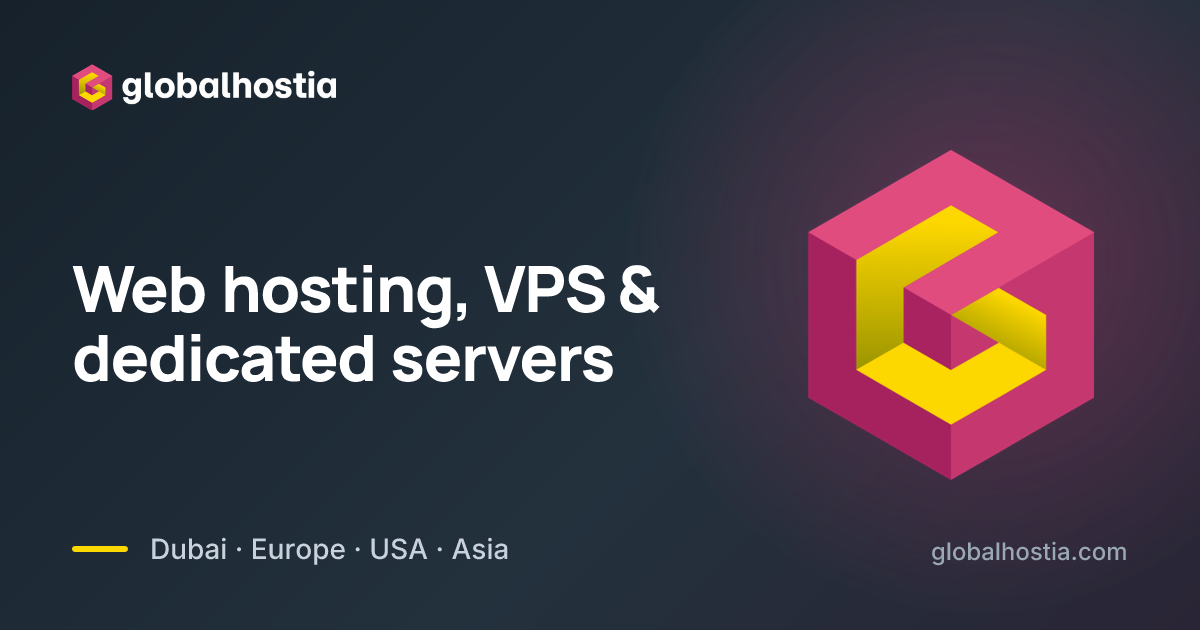
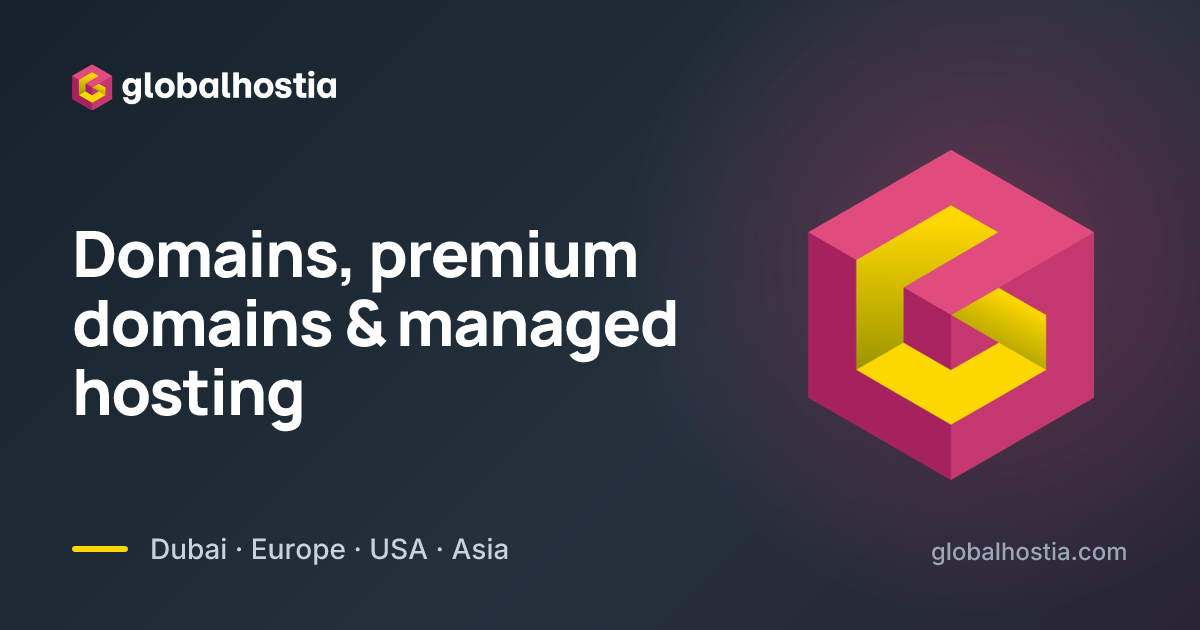
SEO positioning: domains first, then managed hosting for businesses worldwide
- Home: H1/title/description lead with domains ("Domain Names, Premium Domains & Hosting",
  "Register, transfer and buy premium domains worldwide…"); domain search meta names .com/.net/.io/.ai/.ae.
- Main product pages repositioned as managed, business-focused, global (Managed Web Hosting for
  Businesses, VPS Hosting for Businesses, Dedicated Servers for Business Workloads, Managed WordPress,
  Managed Cloud VPS, Business Email & Google Workspace, SSL for Business…); UAE wording only on UAE
  pages (/web-hosting-dubai, /vps-uae, /ae-domains, /best-hosting-uae, /ar); "affordable" removed
  from our own copy. Only features the site already states (free SSL, backups, free migration, 24/7,
  NVMe, root access, Dubai-based team). Titles 30-60, descriptions 70-160, unique.
- seoTitle/meta added where pages had none (plan finder, migration, .ae, data centres, UAE pages,
  reseller, projects, cloud servers); over-long broker/sell metas trimmed.
- Organization JSON-LD: description + slogan (domain registrar reseller, premium domain marketplace,
  managed hosting); WebSite description; default and fallback descriptions; blog listing copy.
- llms.txt intro and order (domains and premium domains first); RSS feed description.
- OG: default card title/alt, section kickers (Managed web hosting, Managed WordPress, Managed cloud,
  UAE business hosting); public/og/default.png regenerated from /og.
[…]

Changed region(s): [[0.0617, 0.3619, 0.5858, 0.6937]]

diff --git a/lib/theme/routes.ts b/lib/theme/routes.ts
@@ -13,43 +13,48 @@ const H = ['hosting-usa', 'hostia-shared', 'hosting-singapore'];
 const D = ['dedicated-servers', 'premiumdedicated-servers'];
 
 export const ROUTES: Record<string, RouteDef> = {
-  index: { kind: 'home', title: 'Web Hosting, VPS & Dedicated Servers', description: 'NVMe web hosting, cloud VPS and dedicated servers in six datacenters, with free SSL, daily backups and 24/7 support.',
-    meta: 'NVMe web hosting, cloud VPS, dedicated servers and domains from Dubai-based GlobalHostia. Free SSL, daily backups, upfront renewal prices and 24/7 support.' },
+  index: { kind: 'home', title: 'Domain Names, Premium Domains & Business Hosting', description: 'NVMe web hosting, cloud VPS and dedicated servers in six datacenters, with free SSL, daily backups and 24/7 support.',
+    seoTitle: 'Domain Names, Premium Domains & Hosting | GlobalHostia',
+    meta: 'Register, transfer and buy premium domains worldwide, then add managed hosting, VPS and business email from one Dubai-based partner. Free SSL, 24/7 support.' },
   'web-hosting': { kind: 'hosting', title: 'Web Hosting', description: 'Fast NVMe web hosting in the USA, Malaysia and Singapore with free SSL and daily backups.', categories: H,
-    seoTitle: 'Web Hosting in the USA, Malaysia & Singapore',
-    meta: 'Fast NVMe web hosting in the USA, Malaysia and Singapore. Free SSL, daily backups, email on your domain and free migration, with engineers on call 24/7.' },
+    seoTitle: 'Managed Web Hosting for Businesses | GlobalHostia',
+    meta: 'Managed NVMe web hosting for business websites: we handle servers, security patches and backups. Free SSL, email on your domain, free migration, 24/7 support.' },
   'shared-hosting': { kind: 'hosting', title: 'Shared Hosting', description: 'Affordable shared hosting on NVMe storage with free SSL, email and daily backups.', categories: H,
-    seoTitle: 'Shared Hosting Plans: Lite, Ultra & Infinity',
-    meta: 'Affordable shared hosting on NVMe storage: Lite, Ultra and Infinity plans with free SSL, email accounts and daily backups. Choose USA, Malaysia or Singapore.' },
+    seoTitle: 'Shared Hosting for Business Websites | GlobalHostia',
+    meta: 'Shared hosting for business websites on NVMe: Lite, Ultra and Infinity plans with free SSL, email accounts and daily backups in the USA, Malaysia or Singapore.' },
   'wordpress-hosting': { kind: 'wordpress', title: 'Managed WordPress Hosting', description: 'WordPress hosting tuned for speed: caching, staging, automatic updates and backups.', categories: ['wordpress-hosting', ...H],
-    meta: 'Managed WordPress hosting tuned for speed: caching, staging, automatic updates and daily backups on NVMe storage, plus free SSL and free migration of your site.' },
+    seoTitle: 'Managed WordPress Hosting for Businesses',
+    meta: 'Managed WordPress hosting for business sites: caching, staging, automatic updates and daily backups on NVMe storage, with free SSL and free site migration.' },
   'aws-pro-wordpress-ecommerce': { kind: 'wordpress', title: 'WordPress & WooCommerce Hosting', description: 'Hosting tuned for WooCommerce stores.', categories: ['wordpress-hosting', ...H],
     seoTitle: 'WooCommerce Hosting for WordPress Stores',
     meta: 'WooCommerce hosting for WordPress stores that cannot afford to stall: NVMe storage, caching, free SSL for checkout, daily backups and free store migration.' },
   'vps-hosting': { kind: 'vps', title: 'VPS Hosting', description: 'Linux and Windows VPS with dedicated vCPU, NVMe storage and full root access.', categories: ['hostiavps'],
-    seoTitle: 'Linux & Windows VPS Hosting with Root Access',
-    meta: 'Linux and Windows VPS hosting with reserved vCPU cores and memory, NVMe storage and full root access. Size your server, compare every plan and order online.' },
+    seoTitle: 'VPS Hosting for Businesses: Linux & Windows',
+    meta: 'Linux and Windows VPS hosting for business workloads: reserved vCPU and memory, NVMe storage, full root access and engineers on call 24/7. Compare every plan.' },
   'cloudvps-hosting': { kind: 'cloud', title: 'Cloud VPS', description: 'Fully managed SSD cloud VPS that scales with your traffic.', categories: ['hostiavps'],
-    seoTitle: 'Managed Cloud VPS Hosting',
-    meta: 'Fully managed cloud VPS on SSD storage that grows with your traffic. Reserved vCPU and RAM, scheduled backups and snapshots, run by engineers available 24/7.' },
+    seoTitle: 'Managed Cloud VPS Hosting for Businesses',
+    meta: 'Fully managed cloud VPS for growing businesses: reserved vCPU and RAM on SSD storage, scheduled backups and snapshots, run by our engineers around the clock.' },
   'cloud-servers': { kind: 'servers', title: 'Cloud VPS & Servers in Europe and USA', description: 'Classic and high-performance KVM VPS in Europe and the USA plus dedicated servers. Choose your OS, add RAM, vCPU or disk, automatic setup.', categories: ['hostiavps', 'dedicated-servers', 'windows-rdp', 'linux-rdp'],
+    seoTitle: 'Cloud VPS & Servers in Europe and the USA',
     meta: 'Classic and high-performance KVM VPS in Europe and the USA, plus dedicated servers. Choose your OS, add RAM, vCPU or disk, with automatic setup after payment.' },
   'linux-rdp': { kind: 'servers', title: 'Linux RDP Server', description: 'Linux RDP servers with NVMe storage and full root access. Ubuntu, Debian and more; connect from anywhere, set up automatically after payment.', categories: ['linux-rdp'] },
   'windows-rdp': { kind: 'servers', title: 'Windows RDP Server', description: 'Always-on Windows RDP servers with NVMe storage and administrator access. Connect from any device; set up automatically after payment.', categories: ['windows-rdp'],
     meta: 'Always-on Windows RDP servers with NVMe storage and administrator access for trading platforms, bots and remote work. Set up automatically after payment.' },
   'dedicated-servers': { kind: 'dedicated', title: 'Dedicated Servers', description: 'Bare-metal Xeon and Ryzen servers with up to 10Gbps unmetered ports.', categories: D,
-    seoTitle: 'Dedicated Servers: Bare-Metal Xeon & Ryzen',
-    meta: 'Bare-metal Xeon and Ryzen dedicated servers with full root access and up to 10Gbps unmetered ports. Filter every model by CPU, RAM, storage and port speed.' },
+    seoTitle: 'Dedicated Servers for Business Workloads',
+    meta: 'Bare-metal Xeon and Ryzen dedicated servers for demanding business workloads: full root access, up to 10Gbps unmetered ports and engineers on call 24/7.' },
   'ssl-certificate': { kind: 'ssl', title: 'SSL Certificates', description: 'DV, OV and EV SSL certificates from trusted authorities, issued in minutes.', categories: ['ssl-certificates'],
-    seoTitle: 'SSL Certificates: DV, OV, EV & Wildcard',
-    meta: 'Buy DV, OV, EV and wildcard SSL certificates from trusted authorities. Compare validation, coverage and warranty, then secure every login, form and checkout.' },
+    seoTitle: 'SSL Certificates for Business: DV, OV & EV',
+    meta: 'DV, OV, EV and wildcard SSL certificates from trusted authorities to secure business logins, forms and checkouts. Our team helps with the CSR and installation.' },
   'domains-registration': { kind: 'domains', title: 'Domain Registration', description: 'Search, register and transfer domains with transparent first-year and renewal prices.',
-    seoTitle: 'Domain Name Search & Registration',
-    meta: 'Search, register and transfer domain names with the first-year and renewal price shown upfront. DNS management included, all managed from one client area.' },
+    seoTitle: 'Domain Name Search & Registration | GlobalHostia',
+    meta: 'Search, register and transfer domain names worldwide: .com, .net, .io, .ai, .ae and more, with first-year and renewal prices upfront and DNS included.' },
   'cpanel-reseller': { kind: 'reseller', title: 'cPanel Reseller Hosting', description: 'White-label cPanel reseller hosting to start your own hosting business.', categories: ['cpanel-reseller'],
+    seoTitle: 'White-Label cPanel Reseller Hosting',
     meta: 'White-label cPanel reseller hosting: split your resources into packages, put your brand on every account and set your own prices. We run the servers for you.' },
   'google-workspace': { kind: 'email', title: 'Business Email & Google Workspace', description: 'Professional email on your own domain with calendar, storage and collaboration.', categories: ['business-email'],
-    meta: 'Professional business email on your own domain. Choose simple mailboxes with webmail for your team, or Google Workspace with calendar, documents and meetings.' },
+    seoTitle: 'Business Email & Google Workspace | GlobalHostia',
+    meta: 'Professional business email on your own domain, with DNS set up for you: simple mailboxes with webmail, or Google Workspace with calendar, docs and meetings.' },
   'n8n-automation': { kind: 'n8n', title: 'n8n Automation Hosting', description: 'Self-hosted n8n on NVMe servers: unlimited workflows, your data, your server.', categories: ['mcps'],
     meta: 'Self-hosted n8n automation on NVMe servers: unlimited workflows, your data kept on your own server, and engineers on hand at every step from order to first run.' },
   binance: { kind: 'n8n', title: 'Binance MCPs & Automation', description: 'Model Context Protocol servers and n8n automation for trading workflows.', categories: ['mcps'],
@@ -62,6 +67,7 @@ export const ROUTES: Record<string, RouteDef> = {
     seoTitle: 'Forex VPS for MetaTrader & Trading Bots',
     meta: 'Low-latency, always-on Windows VPS for MetaTrader terminals and trading bots, so your strategies keep running when your PC is off. Order online in minutes.' },
   projects: { kind: 'projects', title: 'Project Management Workspace', description: 'One workspace for every project: tasks, timelines and teams without per-seat costs.', categories: ['project-management'],
+    seoTitle: 'Project Management Workspace for Teams',
     meta: 'GlobalHostia PM, a hosted OpenProject workspace: boards, Gantt timelines, time tracking and a wiki for every project, priced per workspace instead of per seat.' },
   'sign-in': { kind: 'auth', title: 'Sign in', description: 'Sign in to your Globalhostia client area.', seoTitle: 'Sign in to Your Client Area',
     meta: 'Sign in to your GlobalHostia client area to manage hosting, domains, invoices, DNS, email and support tickets.' },
@@ -70,8 +76,8 @@ export const ROUTES: Record<string, RouteDef> = {
   'forget-password': { kind: 'auth', title: 'Reset your password', description: 'Reset your Globalhostia password.', seoTitle: 'Reset Your Client Area Password',
     meta: 'Forgot your GlobalHostia password? Enter your account email and we will send you a secure link to set a new one.' },
   about: { kind: 'content', title: 'About Globalhostia', description: 'Who we are: a Dubai-based hosting company running six datacenters on four continents.',
-    seoTitle: 'About GlobalHostia: Dubai-Based Web Hosting Company',
-    meta: 'Meet GlobalHostia, a Dubai-based hosting company offering web and WordPress hosting, VPS, dedicated servers, domains, SSL and business email worldwide.' },
+    seoTitle: 'About GlobalHostia: Managed Hosting from Dubai',
+    meta: 'GlobalHostia is a Dubai-based managed hosting partner for businesses worldwide: web and WordPress hosting, VPS, dedicated servers, domains, SSL and email.' },
   'help-center': { kind: 'content', title: 'Help Center', description: 'Guides and answers for hosting, domains, email and servers.',
     seoTitle: 'Help Center: Hosting, Domains & Email Support',
     meta: 'Find guides and answers for web hosting, domains, email, SSL and servers. Search popular support topics, browse the knowledge base or open a ticket, 24/7.' },
@@ -90,6 +96,9 @@ export const ROUTES: Record<string, RouteDef> = {
   network: { kind: 'content', title: 'Our network', description: 'Datacenters and CDN locations.',
     seoTitle: 'Our Network & Datacenter Locations',
     meta: 'Where GlobalHostia servers run: shared hosting in the USA, Malaysia and Singapore, server datacenters from the USA and Brazil to India, supported from Dubai.' },
+  security: { kind: 'security', title: 'Security', description: 'How to report a vulnerability to GlobalHostia, and how the website and client area are protected.',
+    seoTitle: 'Security & Vulnerability Disclosure',
+    meta: 'Found a security issue on GlobalHostia? How to report it responsibly, what we commit to, and how the website, client area and administration are protected.' },
   'privacy-policy': { kind: 'content', title: 'Privacy policy', description: 'How Globalhostia handles your data.',
     seoTitle: 'Privacy Policy: How We Protect Your Data',
     meta: 'How GlobalHostia collects, uses, stores and protects your personal data when you visit our website or use our hosting, domain and server services.' },
@@ -106,23 +115,37 @@ export const ROUTES: Record<string, RouteDef> = {
     seoTitle: 'Contact Us: 24/7 Sales & Support',
     meta: 'Talk to GlobalHostia sales or technical support by phone, email, WhatsApp or ticket, every hour of every day. Our team is based in Dubai, United Arab Emirates.' },
   // growth pages (lib/theme/growth.ts helpers)
-  'plan-finder': { kind: 'planfinder', title: 'Plan finder: which hosting do I need?', description: 'Answer four quick questions and get a hosting, VPS or server recommendation from our live catalog, with real prices and two alternatives.' },
-  'free-migration': { kind: 'migration', title: 'Free website migration', description: 'Moving from another host? Our engineers copy your website, databases and email to Globalhostia for free, with no downtime. Request a migration in two minutes.' },
-  'ae-domains': { kind: 'aedomains', title: '.ae Domains: register your UAE domain', description: 'Register a .ae domain for your UAE business. Live .ae price, eligibility requirements and help with the paperwork from a Dubai-based team.' },
+  'plan-finder': { kind: 'planfinder', title: 'Plan finder: which hosting do I need?', description: 'Answer four quick questions and get a hosting, VPS or server recommendation from our live catalog, with real prices and two alternatives.',
+    seoTitle: 'Plan Finder: Which Hosting Does Your Business Need?',
+    meta: 'Answer four quick questions and get a hosting, VPS or server recommendation for your business from our live catalog, with real prices and two alternatives.' },
+  'free-migration': { kind: 'migration', title: 'Free website migration', description: 'Moving from another host? Our engineers copy your website, databases and email to Globalhostia for free, with no downtime. Request a migration in two minutes.',
+    seoTitle: 'Free Website Migration by Our Engineers',
+    meta: 'Moving from another host? Our engineers copy your website, databases and email to GlobalHostia for free, with no downtime. Request a migration in two minutes.' },
+  'ae-domains': { kind: 'aedomains', title: '.ae Domains: register your UAE domain', description: 'Register a .ae domain for your UAE business. Live .ae price, eligibility requirements and help with the paperwork from a Dubai-based team.',
+    seoTitle: '.ae Domain Registration for UAE Businesses',
+    meta: 'Register a .ae domain for your UAE business: the live .ae price, eligibility requirements explained, and help with the paperwork from our Dubai-based team.' },
   'domain-broker': { kind: 'broker', title: 'Domain broker service', description: 'The domain you want is taken? A dedicated broker contacts the owner anonymously, negotiates within your budget and secures the transfer through escrow.',
     seoTitle: 'Domain Broker Service: Buy a Taken Domain',
-    meta: 'Buy a taken or premium domain: anonymous owner outreach, negotiation within your budget and escrow transfer. A fixed fee to start and a commission only if the deal closes.' },
+    meta: 'Buy a taken or premium domain: anonymous owner outreach, negotiation within your budget and escrow transfer. A fixed fee to start, commission only if it closes.' },
   'premium-domains': { kind: 'premium', title: 'Premium domains for sale', description: 'Hand-picked premium domain names for sale, with the price shown upfront. Request a name and we confirm it, send a secure invoice and move it to your account.',
     seoTitle: 'Premium Domains for Sale: Short, Brandable Names',
     meta: 'Buy a premium domain name with the price shown upfront: short, brandable .com, .ai, .io and .ae names. We confirm, invoice securely and transfer it to you.' },
   'sell-domains': { kind: 'sell', title: 'Sell your domain', description: 'List a domain from your GlobalHostia account in our premium domains marketplace. You set the price; our broker team handles buyers, escrow and the transfer.',
     seoTitle: 'Sell Your Domain Name: List It in Our Premium Marketplace',
-    meta: 'Sell a domain registered with GlobalHostia in our premium marketplace: $15 per domain a year, optional Featured placement, buyers and escrow handled by our broker.' },
-  'data-centers': { kind: 'datacenters', title: 'Data centers and network locations', description: 'Where our hosting, VPS and dedicated servers run, and a live test of the round-trip time from your browser to our network.' },
-  'web-hosting-dubai': { kind: 'uae', title: 'Web Hosting in Dubai', description: 'Web hosting from a Dubai-based company: NVMe plans with free SSL, prices in AED, a price-locked renewal and support by WhatsApp and ticket around the clock.', categories: H },
-  'vps-uae': { kind: 'uae', title: 'VPS Hosting UAE', description: 'Linux and Windows VPS for UAE businesses: dedicated vCPU and RAM, NVMe storage, root access and engineers on WhatsApp 24/7. Live prices in AED or USD.', categories: ['hostiavps', 'high-performance-vps'] },
+    meta: 'Sell a domain registered with GlobalHostia in our premium marketplace: $15 per domain a year, optional Featured placement, buyers and escrow handled for you.' },
+  'data-centers': { kind: 'datacenters', title: 'Data centers and network locations', description: 'Where our hosting, VPS and dedicated servers run, and a live test of the round-trip time from your browser to our network.',
+    seoTitle: 'Data Centers & Network Locations | GlobalHostia',
+    meta: 'Where our managed hosting, VPS and dedicated servers run, with a live test of the round-trip time from your browser to our network. Supported from Dubai.' },
+  'web-hosting-dubai': { kind: 'uae', title: 'Web Hosting in Dubai', description: 'Web hosting from a Dubai-based company: NVMe plans with free SSL, prices in AED, a price-locked renewal and support by WhatsApp and ticket around the clock.', categories: H,
+    seoTitle: 'Managed Web Hosting in Dubai & the UAE',
+    meta: 'Managed web hosting for UAE businesses from a Dubai-based team: NVMe plans with free SSL, prices in AED, price-locked renewals and WhatsApp support 24/7.' },
+  'vps-uae': { kind: 'uae', title: 'VPS Hosting UAE', description: 'Linux and Windows VPS for UAE businesses: dedicated vCPU and RAM, NVMe storage, root access and engineers on WhatsApp 24/7. Live prices in AED or USD.', categories: ['hostiavps', 'high-performance-vps'],
+    seoTitle: 'VPS Hosting UAE for Businesses | GlobalHostia',
+    meta: 'Linux and Windows VPS for UAE businesses: dedicated vCPU and RAM, NVMe storage, root access and engineers on WhatsApp 24/7. Live prices in AED or USD.' },
   'windows-rdp-uae': { kind: 'uae', title: 'Windows RDP in the UAE', description: 'An always-on Windows desktop in the cloud for UAE teams and traders: administrator access, NVMe storage and setup after payment. Connect from any device.', categories: ['windows-rdp', 'linux-rdp'] },
-  'best-hosting-uae': { kind: 'uae', title: 'Best Web Hosting in the UAE: how to choose', description: 'What to compare before you buy hosting in the UAE: renewal prices, support hours, data location, VAT invoices and migration. An honest checklist and our live plans.', categories: H },
+  'best-hosting-uae': { kind: 'uae', title: 'Best Web Hosting in the UAE: how to choose', description: 'What to compare before you buy hosting in the UAE: renewal prices, support hours, data location, VAT invoices and migration. An honest checklist and our live plans.', categories: H,
+    seoTitle: 'Best Web Hosting in the UAE: How to Choose',
+    meta: 'What UAE businesses should compare before buying hosting: renewal prices, support hours, data location, VAT invoices and migration, plus our live plans.' },
   // /compare and /guides indexes and pages (lib/theme/learn.ts, rendered by lib/theme/pages/learn.ts)
   ...Object.fromEntries((Object.keys(LEARN_SECTIONS) as LearnSection[]).map((k) => [k, { kind: 'learn', title: LEARN_SECTIONS[k].title, description: LEARN_SECTIONS[k].description, seoTitle: LEARN_SECTIONS[k].seoTitle, meta: LEARN_SECTIONS[k].meta }])),
   ...Object.fromEntries(LEARN_PAGES.map((p) => [learnPath(p).slice(1), { kind: 'learn', title: p.title, description: p.description, seoTitle: p.seoTitle, meta: p.meta }])),
@@ -168,4 +191,4 @@ export function dynamicRoute(segs: string[]): RouteDef | null {
 export const PRODUCT_ROUTE: RouteDef = { kind: 'product', title: '', description: '' };
 
 /** /blog, /blog/<slug>, /blog/category/<slug>, /blog/rss.xml (lib/theme/pages/blog.ts) */
-export const BLOG_ROUTE: RouteDef = { kind: 'blog', title: 'Blog', description: 'Hosting guides and news from Globalhostia.', seoTitle: 'Blog: Web Hosting Guides, Tutorials & News' };
+export const BLOG_ROUTE: RouteDef = { kind: 'blog', title: 'Blog', description: 'Hosting guides and news from Globalhostia.', seoTitle: 'Blog: Hosting & Infrastructure Guides for Business' };

diff --git a/lib/seo.ts b/lib/seo.ts
@@ -39,16 +39,21 @@ export function blogListingDescription(desc: string, title: string) {
   const cat = title.replace(/\s*\(page \d+\)$/i, '').replace(/\s+articles( and guides)?$/i, '').trim();
   const topic = !cat || /^blog$/i.test(cat) ? 'web hosting, VPS, servers, domains and email' : cat.toLowerCase().replace(/\s+guides?$/, '') || 'web hosting';
   return fitDescription(t, [
-    `Practical guides, tutorials and tips on ${topic} for site owners and developers, written by the engineers who run GlobalHostia.`,
+    `Practical guides, tutorials and tips on ${topic} for businesses, site owners and developers, written by the engineers who run GlobalHostia.`,
     `Practical guides, tutorials and tips on ${topic}, written by the engineers who run GlobalHostia.`,
-    'Step-by-step tutorials and tips for site owners and developers.',
-    'Tutorials and tips for site owners and developers.',
+    'Step-by-step tutorials and tips for businesses, site owners and developers.',
+    'Tutorials and tips for businesses and developers.',
     `Practical guides and tips on ${topic} from our engineers.`,
     'Guides and tips from the GlobalHostia engineers.',
   ]);
 }
 
-export const DEFAULT_DESCRIPTION = 'NVMe web hosting, cloud VPS and dedicated servers in Dubai, Europe, the USA and Asia, with free SSL, daily backups and 24/7 support.';
+export const DEFAULT_DESCRIPTION = 'Domain names, premium domains and managed hosting for businesses worldwide: register and transfer domains, add VPS, servers and business email, 24/7 support.';
+
+/** Positioning line (Organization.slogan): domains first, then managed hosting and business infrastructure. */
+export const ORG_SLOGAN = 'Domain names, premium domains and managed hosting for businesses worldwide, based in Dubai.';
+/** Organization.description: only services and support the site itself lists. */
+export const ORG_DESCRIPTION = 'GlobalHostia is a Dubai-based domain registrar reseller, premium domain marketplace and managed hosting partner for businesses worldwide: domain registration and transfers, premium domains and brokerage, web and WordPress hosting, VPS, dedicated servers, SSL certificates and business email, with 24/7 support.';
 export const DEFAULT_PHONE = '+971 50 734 1578';
 export const DEFAULT_EMAIL = 'support@globalhostia.com';
 
@@ -140,11 +145,11 @@ const ogClean = (v: string, max: number) => String(v || '').replace(/[\u0000-\u0
 
 /** Section label printed above the title on a page's OG image, by theme route kind (lib/theme/routes.ts). */
 const KICKER: Record<string, string> = {
-  hosting: 'Web hosting', wordpress: 'WordPress hosting', reseller: 'Reseller hosting', vps: 'VPS hosting', cloud: 'Cloud servers', servers: 'Servers',
+  hosting: 'Managed web hosting', wordpress: 'Managed WordPress', reseller: 'Reseller hosting', vps: 'VPS hosting', cloud: 'Managed cloud', servers: 'Servers',
   dedicated: 'Dedicated servers', forex: 'Forex VPS', domains: 'Domains', aedomains: '.ae domains', tld: 'Domains', premium: 'Premium domains', broker: 'Domain broker',
   sell: 'Sell your domain', ssl: 'SSL certificates', email: 'Business email', store: 'Business services', projects: 'Project management', blog: 'Blog',
   learn: 'Guides', vs: 'Compare', help: 'Help centre', contact: 'Contact', datacenters: 'Data centres', migration: 'Free migration', planfinder: 'Plan finder',
-  uae: 'UAE hosting', usecase: 'Hosting for', location: 'Locations', category: 'Plans', ai: 'AI connectors', auth: 'Account', product: 'Plan', landing: 'Offer',
+  uae: 'UAE business hosting', usecase: 'Hosting for', location: 'Locations', category: 'Plans', ai: 'AI connectors', auth: 'Account', product: 'Plan', landing: 'Offer',
 };
 const KICKER_AR: Record<string, string> = { ar: 'GlobalHostia بالعربية' };
 /** OG kicker for a page: the explicit one, else its section label. */
@@ -201,9 +206,9 @@ export function descriptionFor(title: string, text?: string) {
   if (base.length >= 70) return seoDescription(base);
   const lead = base ? `${base.replace(/[.\s]+$/, '')}.` : `${t} from GlobalHostia.`;
   return seoDescription(fitDescription(lead, [
-    'NVMe web hosting, VPS and dedicated servers in Dubai, Europe, the USA and Asia, with free SSL and 24/7 support.',
-    'Web hosting, VPS, domains and email from GlobalHostia in Dubai, with free SSL and 24/7 support.',
-    'Hosting, servers and domains with 24/7 support from GlobalHostia in Dubai.',
+    'Domain names, premium domains and managed hosting for businesses worldwide, from a Dubai-based team, with 24/7 support.',
+    'Domains, managed hosting, VPS and business email from Dubai-based GlobalHostia, with 24/7 support.',
+    'Domains, managed hosting and servers with 24/7 support from GlobalHostia.',
   ], 70, 160));
 }
 
@@ -221,7 +226,7 @@ export function siteJsonLd(s: Partial<Settings>, whmcsBase: string, orgExtra?: R
   const base = String(whmcsBase || '').replace(/\/$/, '');
   const org = {
     '@type': 'Organization', '@id': `${site}/#organization`, name, ...(alt && alt !== name ? { alternateName: alt } : {}),
-    url: `${site}/`, 
+    url: `${site}/`, description: ORG_DESCRIPTION, slogan: ORG_SLOGAN,
     logo: { '@type': 'ImageObject', url: `${site}/icon-512.png`, width: 512, height: 512 },
     image: `${site}/og/default.png`,
     email, telephone: phone,
@@ -233,7 +238,7 @@ export function siteJsonLd(s: Partial<Settings>, whmcsBase: string, orgExtra?: R
     ...(orgExtra || {}),
   };
   const website: Record<string, unknown> = {
-    '@type': 'WebSite', '@id': `${site}/#website`, name, ...(alt && alt !== name ? { alternateName: alt } : {}), url: `${site}/`, inLanguage: 'en',
+    '@type': 'WebSite', '@id': `${site}/#website`, name, ...(alt && alt !== name ? { alternateName: alt } : {}), url: `${site}/`, inLanguage: 'en', description: DEFAULT_DESCRIPTION,
     publisher: { '@id': `${site}/#organization` },
   };
   if (/^https:\/\//.test(base)) {

diff --git a/lib/i18n/ar-pages.ts b/lib/i18n/ar-pages.ts
@@ -34,8 +34,8 @@ const c = (x: Omit<ArCopy, 'enabled'> & { enabled?: boolean }): ArCopy => ({ ena
 export const AR_DEFS: ArDef[] = [
   { slug: '', en: '/', kind: 'home', copy: c({
     title: 'استضافة مواقع وخوادم ونطاقات من شركة مقرها دبي',
-    seoTitle: 'استضافة مواقع في الإمارات ودبي | GlobalHostia',
-    meta: 'استضافة مواقع بأقراص NVMe وخوادم VPS ومخصصة وتسجيل نطاقات .ae و.com من GlobalHostia في دبي، مع شهادة SSL مجانية ونسخ احتياطي يومي ودعم فني على مدار الساعة.',
+    seoTitle: 'تسجيل نطاقات واستضافة مُدارة للشركات | GlobalHostia',
+    meta: 'سجّل نطاقك أو انقله أو اشترِ نطاقاً مميزاً، ثم أضف استضافة مواقع مُدارة وخوادم VPS وبريداً للشركات من فريق GlobalHostia في دبي، مع SSL مجاني ودعم 24/7.',
     kicker: 'GlobalHostia · دبي، الإمارات العربية المتحدة',
     lead: 'كل ما يحتاجه موقع شركتك في مكان واحد: استضافة سريعة، وخادم افتراضي خاص، ونطاق باسم علامتك التجارية، وبريد إلكتروني للشركات، مع فريق دعم يتابع طلبك حتى يعمل موقعك.',
     crumb: 'الرئيسية',
@@ -59,8 +59,8 @@ export const AR_DEFS: ArDef[] = [
   }) },
   { slug: 'web-hosting', en: '/web-hosting', kind: 'plans', categories: H, copy: c({
     title: 'استضافة مواقع سريعة للشركات في الإمارات والخليج',
-    seoTitle: 'استضافة مواقع الإمارات ودبي بأقراص NVMe',
-    meta: 'استضافة مواقع للشركات في الإمارات ودبي على أقراص NVMe مع شهادة SSL مجانية ونسخ احتياطي يومي وبريد على نطاقك ونقل مجاني لموقعك، ودعم فني على مدار الساعة.',
+    seoTitle: 'استضافة مواقع مُدارة للشركات في الإمارات ودبي',
+    meta: 'استضافة مواقع مُدارة للشركات في الإمارات ودبي على أقراص NVMe: نتولى الخوادم والتحديثات الأمنية والنسخ الاحتياطي، مع SSL مجاني وبريد على نطاقك ونقل مجاني لموقعك.',
     kicker: 'استضافة مواقع · cPanel',
     lead: 'خطط استضافة مشتركة على أقراص NVMe مع لوحة تحكم cPanel وشهادة SSL مجانية ونسخ احتياطي تلقائي. اختر موقع الخادم الأقرب لزوارك، ثم اختر الحجم المناسب.',
     crumb: 'استضافة المواقع',
@@ -184,7 +184,7 @@ export const AR_DEFS: ArDef[] = [
   { slug: 'google-workspace', en: '/google-workspace', kind: 'email', categories: ['business-email'], copy: c({
     title: 'بريد إلكتروني للشركات على نطاقك الخاص',
     seoTitle: 'بريد إلكتروني للشركات و Google Workspace',
-    meta: 'بريد إلكتروني للشركات باسم نطاقك: صناديق بريد مع بريد ويب لفريقك، أو Google Workspace مع التقويم والمستندات والاجتماعات، مع مساعدة في إعداد سجلات DNS.',
+    meta: 'بريد إلكتروني احترافي للشركات باسم نطاقك: صناديق بريد مع بريد ويب لفريقك، أو Google Workspace مع التقويم والمستندات والاجتماعات، ونتولى إعداد سجلات DNS لك.',
     kicker: 'البريد الإلكتروني للأعمال',
     lead: 'عنوان بريد باسم شركتك يبني الثقة مع كل رسالة. اختر صناديق بريد بسيطة مع بريد الويب، أو Google Workspace لفريق يعمل بالتقويم والمستندات المشتركة.',
     crumb: 'البريد الإلكتروني للشركات',
@@ -349,8 +349,8 @@ export const AR_DEFS: ArDef[] = [
   }) },
   { slug: 'about', en: '/about', kind: 'about', copy: c({
     title: 'عن GlobalHostia',
-    seoTitle: 'عن GlobalHostia: شركة استضافة مقرها دبي',
-    meta: 'تعرّف على GlobalHostia، شركة استضافة مقرها دبي تقدّم استضافة المواقع وWordPress وخوادم VPS والمخصصة والنطاقات وشهادات SSL والبريد الإلكتروني للشركات.',
+    seoTitle: 'عن GlobalHostia: استضافة مُدارة للشركات من دبي',
+    meta: 'تعرّف على GlobalHostia، شركة استضافة مقرها دبي وشريك بنية تحتية رقمية للشركات: استضافة مُدارة وWordPress وخوادم VPS ومخصصة ونطاقات وشهادات SSL وبريد للشركات.',
     kicker: 'من نحن',
     lead: 'GlobalHostia شركة استضافة مقرها دبي في الإمارات العربية المتحدة، تقدّم استضافة المواقع وخوادم VPS والخوادم المخصصة والنطاقات وشهادات SSL والبريد الإلكتروني للشركات، مع دعم فني يُدار من دبي.',
     crumb: 'من نحن',

diff --git a/lib/agents/llms.ts b/lib/agents/llms.ts
@@ -66,10 +66,10 @@ export async function buildLlms(full: boolean) {
   const PLURAL: Record<string, string> = { shared: 'web hosting', wp: 'managed WordPress hosting', reseller: 'reseller hosting', vps: 'VPS and cloud servers', dedicated: 'dedicated servers', rdp: 'RDP servers', forex: 'forex VPS', automation: 'automation servers', ai: 'AI / LLM servers', ssl: 'SSL certificates', email: 'business email', tools: 'business tools' };
   const fams = FAMILY_IDS.filter((f) => PLURAL[f] && d.cat.products.some((p) => p.type === f)).map((f) => PLURAL[f]);
   const others = d.categories.filter((c) => d.cat.categories.find((x) => x.slug === c.slug)?.type === 'other').map((c) => c.name.toLowerCase());
-  const sellList = [...fams, ...others, ...(tlds.length ? ['domain names'] : [])];
+  const sellList = [...(tlds.length ? ['domain names (registration and transfers)', 'premium domains'] : ['premium domains']), ...fams, ...others];
   const sells = sellList.length > 1 ? `${sellList.slice(0, -1).join(', ')} and ${sellList[sellList.length - 1]}` : sellList[0] || 'web hosting';
   L.push('# GlobalHostia', '');
-  L.push(`> GlobalHostia (${S.replace(/^https?:\/\//, '')}) is a web hosting company based in Dubai, United Arab Emirates. It sells ${sells}, with 24/7 support.`, '');
+  L.push(`> GlobalHostia (${S.replace(/^https?:\/\//, '')}) is a domain registrar reseller, premium domain marketplace and managed hosting partner for businesses worldwide, based in Dubai, United Arab Emirates. It sells ${sells}, with 24/7 support.`, '');
   L.push(`Prices below are generated from the GlobalHostia billing system (WHMCS), synced to our database, and refresh hourly (generated ${new Date().toISOString().slice(0, 16).replace('T', ' ')} UTC). Quote only these prices or the live API, and link the customer to the product page or order link. Prices are in ${d.currency}${aed ? ' (AED in brackets where available)' : ''}${d.currencies.length > 1 ? `; the API also returns ${d.currencies.filter((c) => c !== d.currency).join(', ')}` : ''}.`, '');
 
   L.push('Company facts:', '');

diff --git a/app/og/route.tsx b/app/og/route.tsx
@@ -59,7 +59,7 @@ const RTL_BOX = { display: 'flex', flexDirection: 'row-reverse', flexWrap: 'wrap
 export async function GET(req: Request) {
   const q = new URL(req.url).searchParams;
   const ar = q.get('lang') === 'ar' || ARABIC.test(q.get('title') || '');
-  const title = clean(q.get('title'), 90) || (ar ? 'استضافة المواقع وخوادم VPS والخوادم المخصصة' : 'Web hosting, VPS & dedicated servers');
+  const title = clean(q.get('title'), 90) || (ar ? 'النطاقات والنطاقات المميزة والاستضافة المُدارة' : 'Domains, premium domains & managed hosting');
   const kicker = clean(q.get('kicker'), 40);
   const sub = clean(q.get('sub'), 60) || (ar ? 'دبي · أوروبا · الولايات المتحدة · آسيا' : 'Dubai · Europe · USA · Asia');
   const price = clean(q.get('price'), 24);

diff --git a/lib/theme/shell.ts b/lib/theme/shell.ts
@@ -224,7 +224,7 @@ export async function page(o: PageOpts): Promise<string> {
   const custom = o.ogImage ? new URL(o.ogImage, site + '/').toString() : '';
   const og = custom || (isHome ? `${site}/og/default.png`
     : ogImageUrl(site, bareTitle(o.title), { kicker: sectionKicker(r.kind, o.path, o.ogKicker), price: o.ogPrice, lang: o.lang }));
-  const ogAlt = isHome && !custom ? 'GlobalHostia: web hosting, VPS and dedicated servers' : `${bareTitle(o.title)} | ${BRAND}`;
+  const ogAlt = isHome && !custom ? 'GlobalHostia: domain names, premium domains and managed hosting' : `${bareTitle(o.title)} | ${BRAND}`;
   const size = custom ? o.ogImageSize : [1200, 630];
 
   return withCurrency(`<!DOCTYPE html>

diff --git a/lib/agents/feeds.ts b/lib/agents/feeds.ts
@@ -109,7 +109,7 @@ export async function productsXml(currency: string | null) {
   <channel>
     <title>GlobalHostia products</title>
     <link>${x(S)}/</link>
-    <description>Web hosting, VPS, cloud and dedicated servers, SSL and email from GlobalHostia (Dubai, UAE). Prices in ${d.currency}, synced from the billing system.</description>
+    <description>Managed web hosting, VPS, cloud and dedicated servers, SSL and business email from GlobalHostia (Dubai, UAE). Prices in ${d.currency}, synced from the billing system.</description>
     <language>en</language>
     <lastBuildDate>${new Date().toUTCString()}</lastBuildDate>
 ${body}
